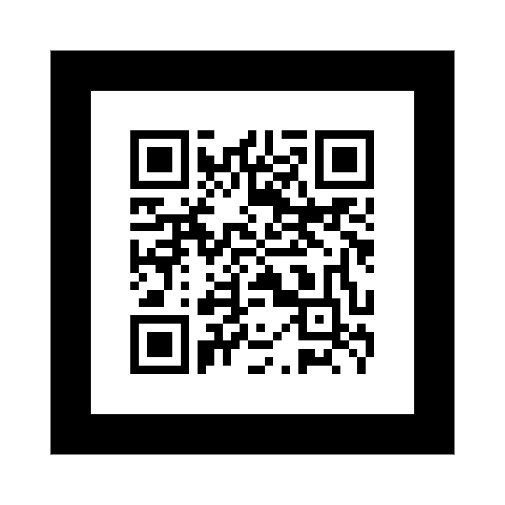
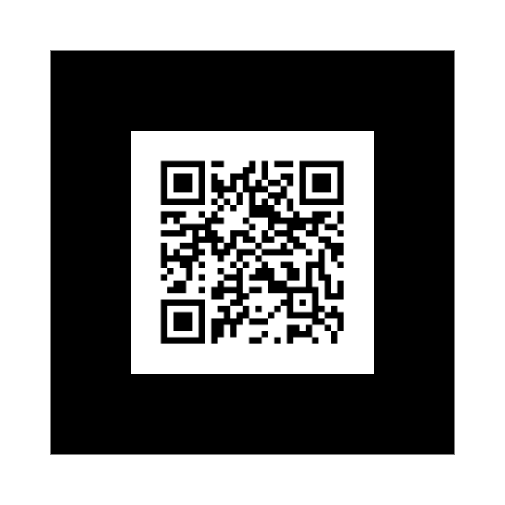
また違うサンプル

diff --git a/ar-script.js b/ar-script.js
@@ -1,106 +1,34 @@
-let w;
-let h;
-let canvas;
-let scene;
-let camera;
-let renderer;
-let object;
+const renderer = new THREE.WebGLRenderer({
+  antialias: true,
+  alpha: true
+});
+renderer.setClearColor(new THREE.Color(), 0);
+renderer.setSize(640, 480);
+renderer.domElement.style.position = 'absolute';
+renderer.domElement.style.top = '0px';
+renderer.domElement.style.left = '0px';
+document.body.appendChild(renderer.domElement);
 
-let arToolkitSource;
-let arToolkitContext;
+const scene = new THREE.Scene();
+scene.visible = false;
+const camera = new THREE.Camera();
+scene.add(camera);
 
-const init = () => {
-  w = window.innerWidth;
-  h = window.innerHeight;
-  canvas = document.getElementById("canvas");
-  setScene();
-  setCamera();
-  setObject();
-  setArToolkit();
-  setRenderer();
-};
+const arToolkitSource = new THREEx.ArToolkitSource({
+  sourceType: 'webcam'
+});
 
-const setScene = () => {
-  scene = new THREE.Scene();
-  scene.visible = false;
-};
+arToolkitSource.init(() => {
+  setTimeout(() => {
+    onResize();
+  }, 2000);
+});
 
-const setCamera = () => {
-  camera = new THREE.PerspectiveCamera(45, w / h, 0.1, 30);
-  scene.add(camera);
-};
+addEventListener('resize', () => {
+  onResize();
+});
 
-const setArToolkit = () => {
-  arToolkitSource = new THREEx.ArToolkitSource({
-    sourceType: "webcam",
-  });
-
-  arToolkitSource.init(() => {
-    setTimeout(() => {
-      onResize();
-    }, 2000);
-  });
-
-  arToolkitContext = new THREEx.ArToolkitContext({
-    cameraParametersUrl:
-      THREEx.ArToolkitContext.baseURL + "../data/data/camera_para.dat",
-    detectionMode: "mono",
-    // ※1 作ったマーカーのPattern Ratioを入れる
-    patternRatio: 0.8,
-  });
-
-  arToolkitContext.init(
-    (onCompleted = () => {
-      camera.projectionMatrix.copy(arToolkitContext.getProjectionMatrix());
-    })
-  );
-
-  let onRenderFcts = [];
-  onRenderFcts.push(() => {
-    if (arToolkitSource.ready === false) return;
-    arToolkitContext.update(arToolkitSource.domElement);
-    scene.visible = camera.visible;
-  });
-
-  const markerControls = new THREEx.ArMarkerControls(arToolkitContext, camera, {
-    type: "pattern",
-    // ※2 マーカーのpattファイルのパスを入れる
-    patternUrl: "./marker/pattern-chart.patt",
-    changeMatrixMode: "cameraTransformMatrix",
-  });
-};
-
-const setObject = () => {
-  const geometry = new THREE.BoxGeometry(1, 1, 1);
-  const material = new THREE.MeshNormalMaterial();
-  object = new THREE.Mesh(geometry, material);
-  object.position.set(0, 0, 0);
-  scene.add(object);
-};
-
-const setRenderer = () => {
-  renderer = new THREE.WebGLRenderer({
-    antialias: true,
-    alpha: true,
-    canvas: canvas,
-  });
-  renderer.setClearColor(0x000000, 0);
-  renderer.setSize(w, h);
-  renderer.setPixelRatio(window.devicePixelRatio);
-  renderer.setAnimationLoop(() => {
-    render();
-  });
-};
-
-const render = () => {
-  if (arToolkitSource.ready) {
-    arToolkitContext.update(arToolkitSource.domElement);
-    scene.visible = camera.visible;
-  }
-  renderer.render(scene, camera);
-};
-
-const onResize = () => {
+function onResize() {
   arToolkitSource.onResizeElement();
   arToolkitSource.copyElementSizeTo(renderer.domElement);
   if (arToolkitContext.arController !== null) {
@@ -108,10 +36,40 @@ const onResize = () => {
   }
 };
 
-window.addEventListener("resize", () => {
-  onResize();
+const arToolkitContext = new THREEx.ArToolkitContext({
+  cameraParametersUrl:
+    THREEx.ArToolkitContext.baseURL + "../data/data/camera_para.dat",
+  detectionMode: "mono",
+  // ※1 作ったマーカーのPattern Ratioを入れる
+  patternRatio: 0.5,
 });
 
-window.onload = () => {
-  init();
-};
+arToolkitContext.init(() => {
+  camera.projectionMatrix.copy(arToolkitContext.getProjectionMatrix());
+});
+
+const arMarkerControls = new THREEx.ArMarkerControls(arToolkitContext, camera, {
+  type: 'pattern',
+  patternUrl: 'marker/pattern-chart.patt',
+  changeMatrixMode: 'cameraTransformMatrix'
+});
+
+const mesh = new THREE.Mesh(
+  new THREE.CubeGeometry(1, 1, 1),
+  new THREE.MeshNormalMaterial(),
+);
+mesh.position.y = 1.0;
+scene.add(mesh);
+
+const clock = new THREE.Clock();
+requestAnimationFrame(function animate(){
+  requestAnimationFrame(animate);
+  if (arToolkitSource.ready) {
+      arToolkitContext.update(arToolkitSource.domElement);
+      scene.visible = camera.visible;
+  }
+  const delta = clock.getDelta();
+  mesh.rotation.x += delta * 1.0;
+  mesh.rotation.y += delta * 1.5; 
+  renderer.render(scene, camera);
+});

diff --git a/ar.html b/ar.html
@@ -1,27 +1,11 @@
 <!DOCTYPE html>
-<html lang="ja">
-    <head>
-        <meta charset="UTF-8">
-        <meta name="viewport" content="width=device-width, initial-scale=1.0">
-        <title>Mraker Based AR</title>   
-        <script src="https://cdnjs.cloudflare.com/ajax/libs/three.js/110/three.js"></script>
-        <script src="https://raw.githack.com/AR-js-org/AR.js/3.1.0/three.js/build/ar.js"></script>
-    </head>
-    <script src="https://aframe.io/releases/1.0.4/aframe.min.js"></script>
-    <!-- we import arjs version without NFT but with marker + location based support -->
-    <script src="https://raw.githack.com/AR-js-org/AR.js/master/aframe/build/aframe-ar.js"></script>
-    <body style="margin : 0px; overflow: hidden;">
-        <div id="canvas"></div>
-        <!-- <a-scene embedded arjs>
-            <a-marker type="pattern" url="./marker/pattern-chart.patt">
-                <a-entity
-                    position="0 0 0"
-                    scale="0.05 0.05 0.05"
-                    gltf-model="./model/mar.gltf"
-                ></a-entity>
-            </a-marker>
-            <a-entity camera></a-entity>
-        </a-scene> -->
-        <script src="ar-script.js"></script>
-    </body>
+<html>
+  <head>
+    <title>Marker Based AR with AR.js and Three.js</title>
+    <script src="https://cdnjs.cloudflare.com/ajax/libs/three.js/110/three.js"></script>
+    <script src="https://raw.githack.com/AR-js-org/AR.js/3.1.0/three.js/build/ar.js"></script>
+  </head>
+  <body>
+    <script src="ar-script.js"></script>
+  </body>
 </html>
